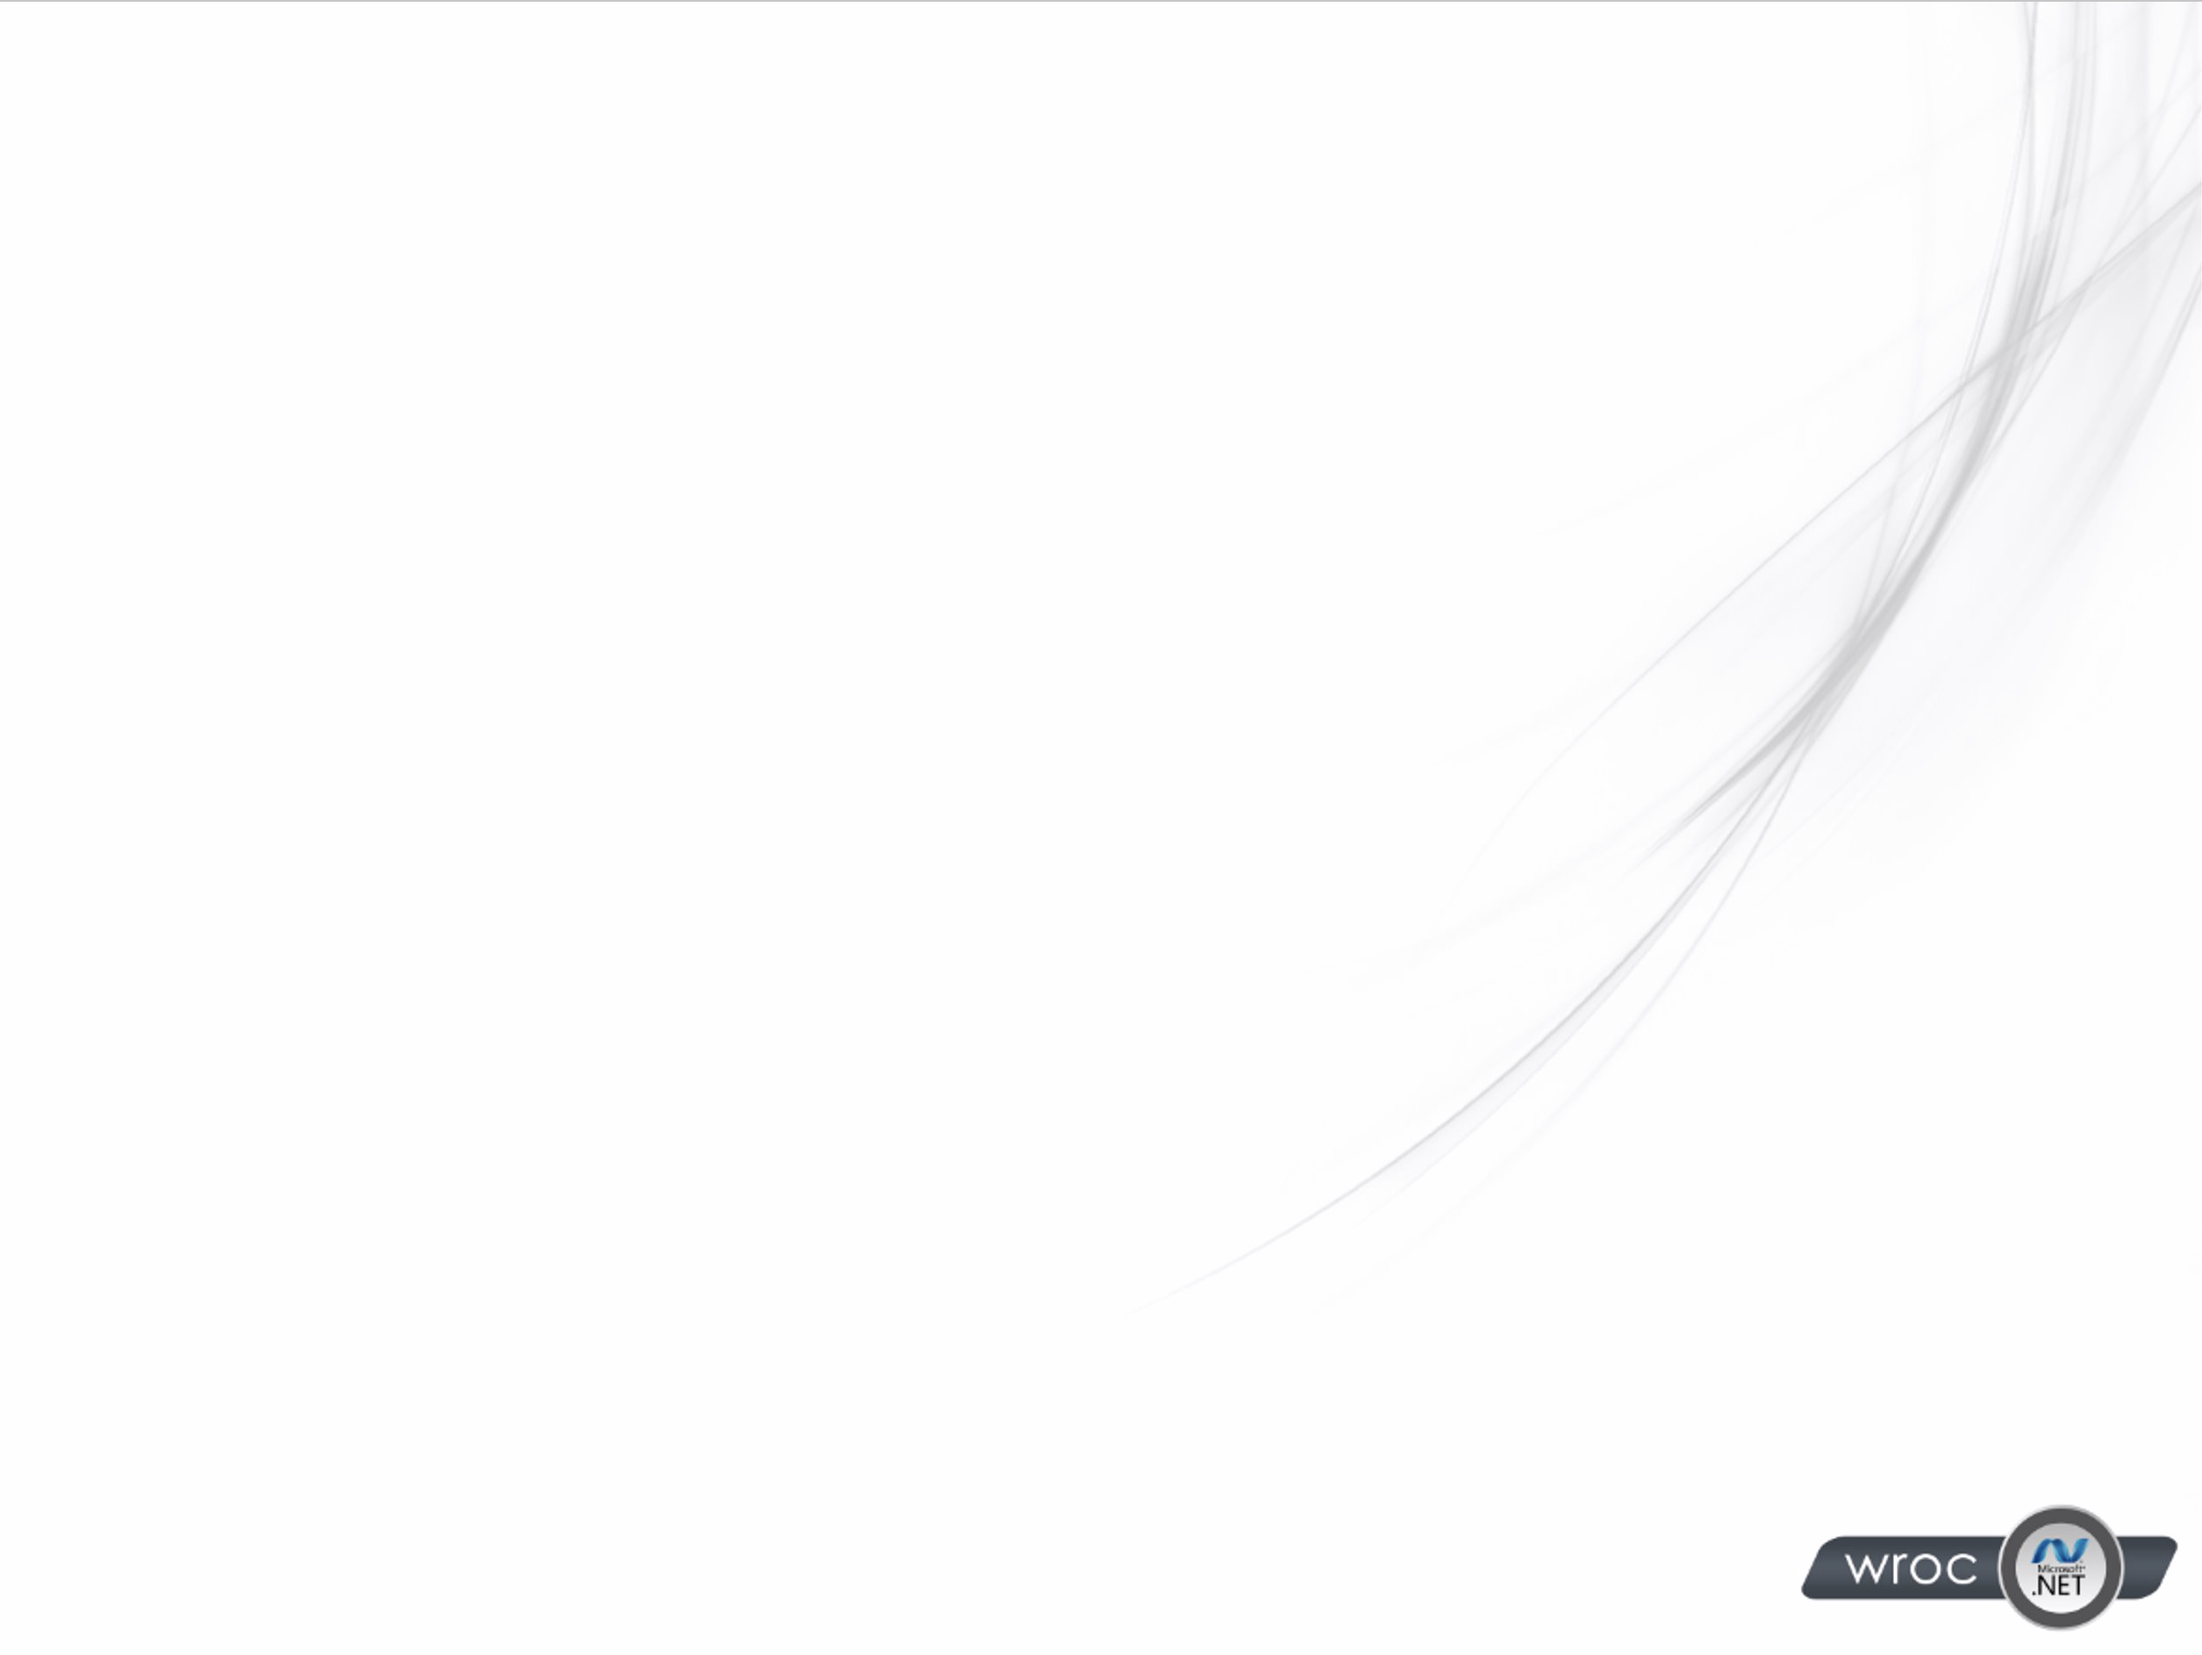
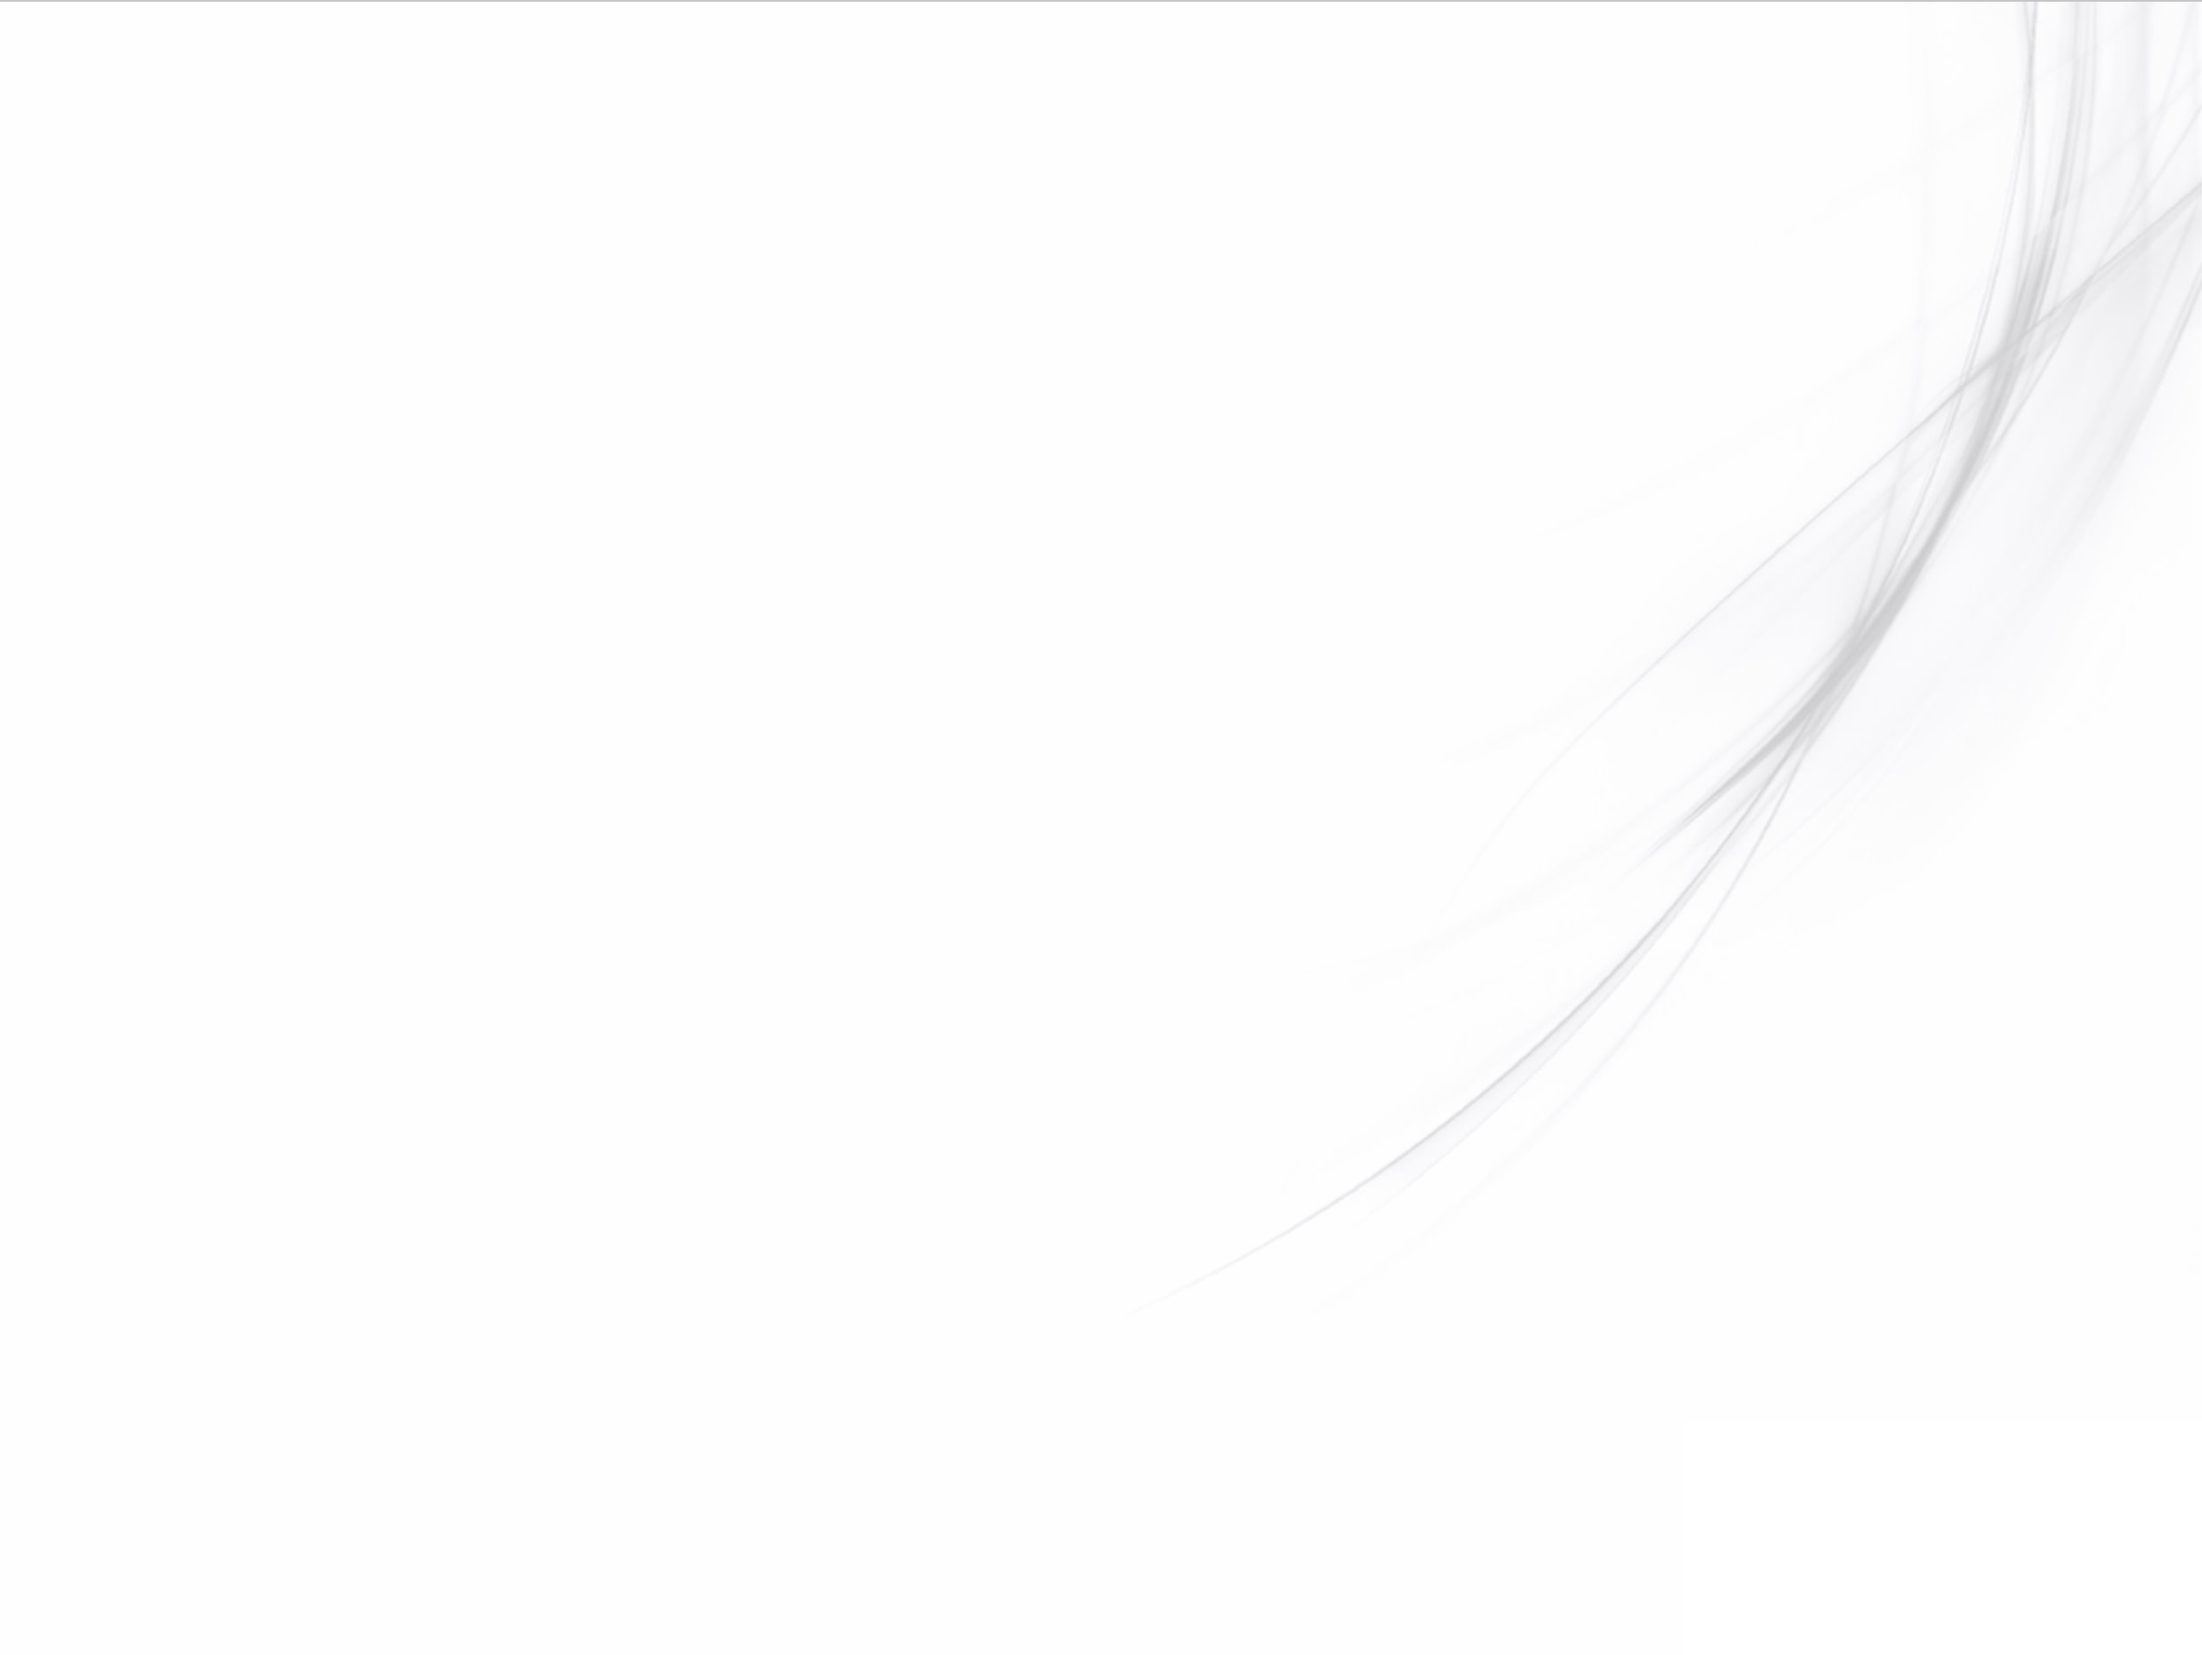
spotkanie 118 jako eksperyment

Changed region(s): [[0.808, 0.8918, 0.9944, 0.9841]]

diff --git a/spotkanie-118/PITCHME.md b/spotkanie-118/PITCHME.md
@@ -1,0 +1,61 @@
++++?image=assets/bg.png
+
+![Wrocnet Logo](assets/grupanet2.png)
+
+@snap[south span-50]
+
+### Spotkanie 119
+#### 17.09.2019
+
+@snapend
+
++++?image=assets/bg.png
+
+## Prezentacje
+
+* **WebAssembly & .NET** - Joanna Lamch
+* **VS Code extensions API** - VS Code extensions API
+
++++?image=assets/bg.png
+
+## Kalendarz
+
+* 18.06.2019 – plażowe spotkanie
+* 16.07.2019 – plażowe spotkanie
+* 20.08.2019 – plażowe spotkanie
+* 17.09.2019 – spotkanie 119
+
++++?image=assets/bg.png
+
+## Social media
+
+@fa[link]: 	http://wrocnet.github.io
+
+@fa[meetup]: 	http://wrocnet.org
+
+@fa[facebook]: 	https://www.facebook.com/WrocNET
+
+@fa[twitter]: 	https://twitter.com/wrocnet
+
++++?image=assets/bg.png
+
+## Wspierają nas
+
+PGS, logo logo logo
+
++++?image=assets/bg.png
+
+## Szukamy prelegentów
+
+@snap[midpoint]
+![Prezenterka](assets/prezenterka.png)
+![Prezenterka](assets/prezenter.png)
+@snapend
+
++++?image=assets/bg.png
+
+### Zapraszamy na prezentacje oraz integracje
+
+@snap[midpoint]
+![Prezenterka](assets/krasnal.png)
+@snapend
